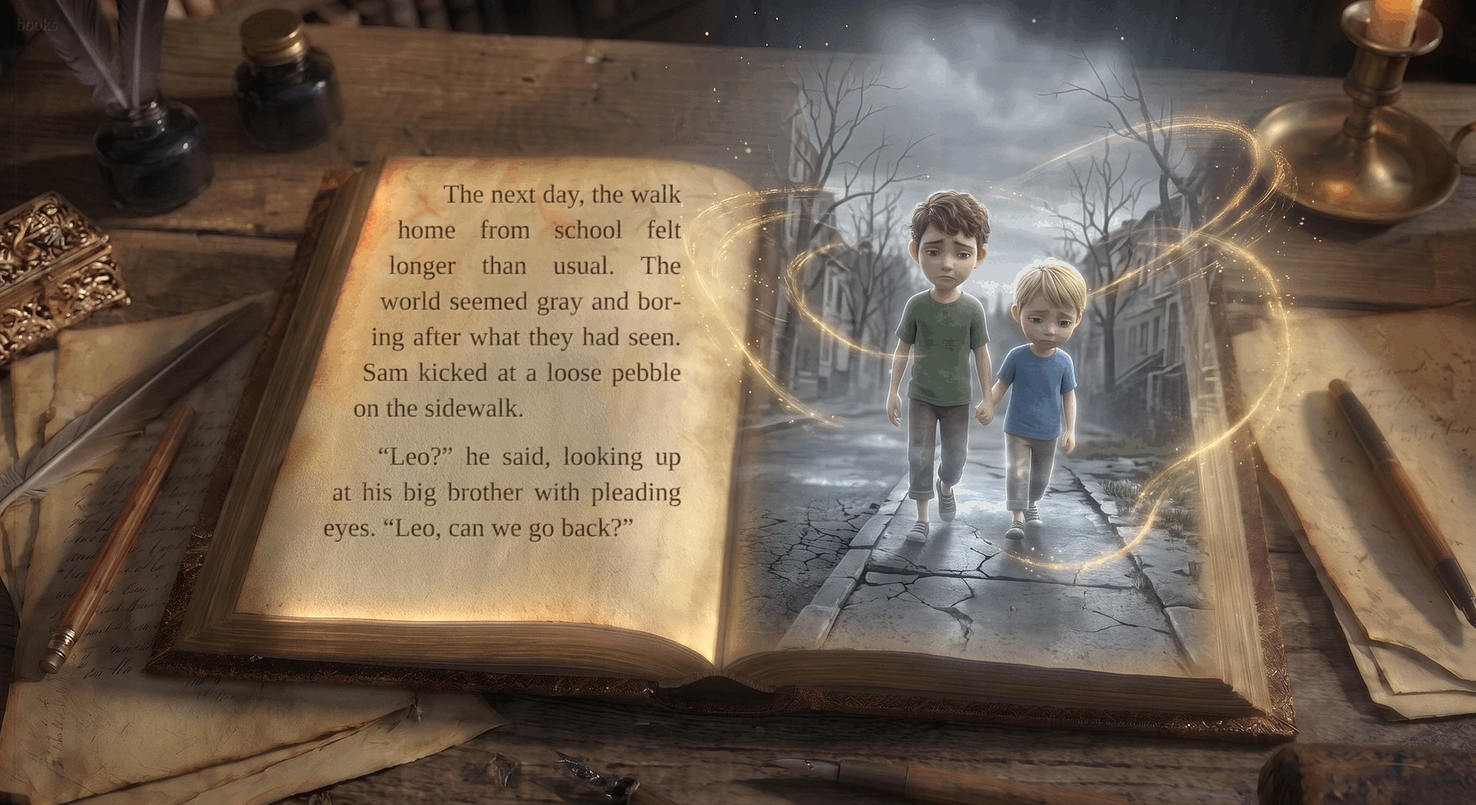
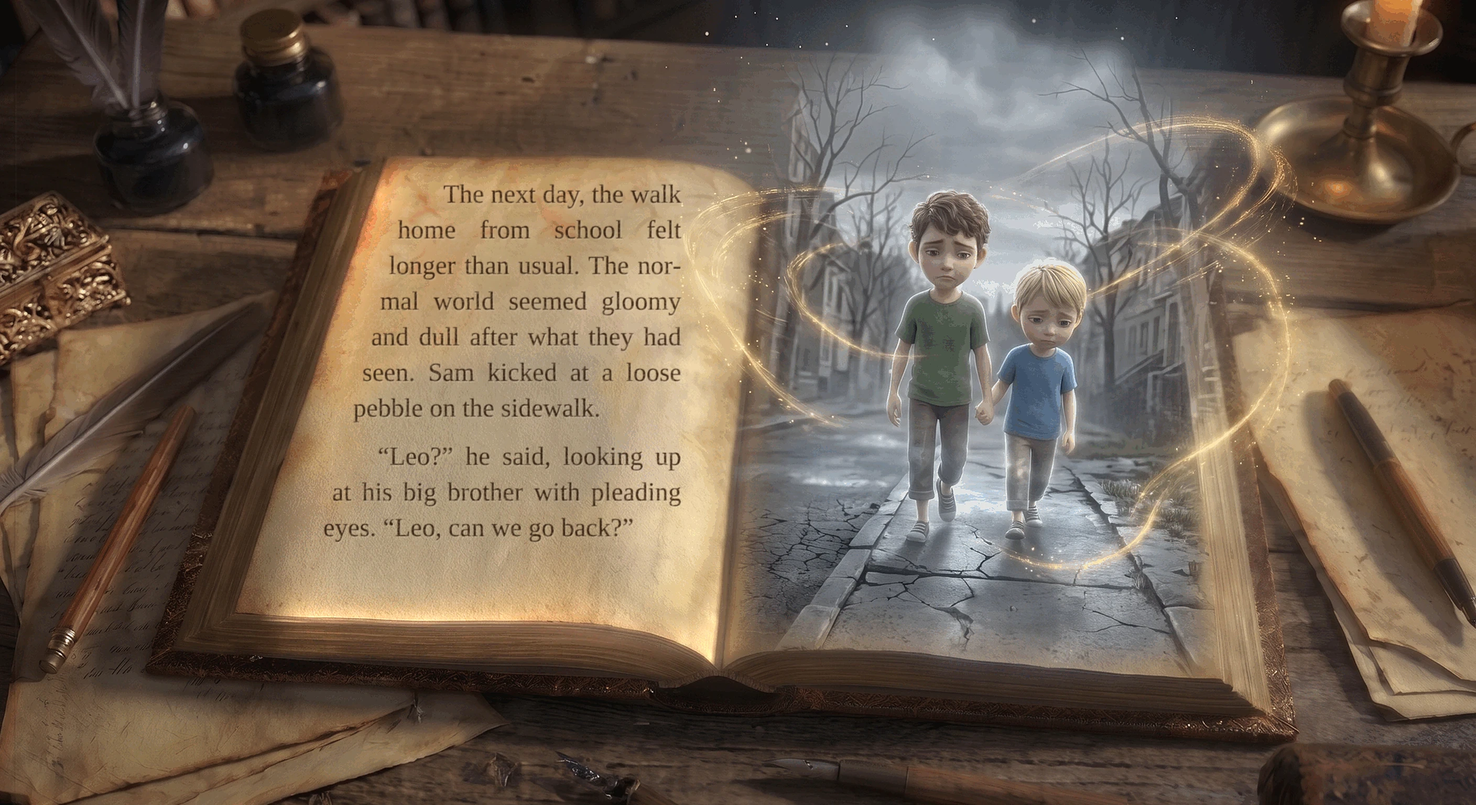
Page 35: gloomy and dull
Claude-Session: https://claude.ai/code/session_01BFtifSTdmWYaAK88ECs5PE

Changed region(s): [[0.25, 0.3125, 0.4688, 0.5312]]

diff --git a/books/upside-down-world/index.html b/books/upside-down-world/index.html
@@ -131,7 +131,7 @@ body.narrow #bar{gap:6px;padding-top:8px}body.narrow #bar button{padding:0 12px;
   <button id="auto" aria-pressed="true" title="Turn the pages by itself">Auto turn</button>
   <button id="next" aria-label="Next page">&#8594;</button>
 </div>
-<script src="story.js?v=136"></script>
+<script src="story.js?v=137"></script>
 <script src="sprite.js?v=42"></script>
 <script src="lyrics.js?v=2"></script><script src="lyrics2.js?v=1"></script>
 <script src="voice.js?v=20"></script>
@@ -217,7 +217,7 @@ const vids={};let blackT=null;
 function black(){if(!blackT&&gl){blackT=gl.createTexture();gl.bindTexture(gl.TEXTURE_2D,blackT);gl.texImage2D(gl.TEXTURE_2D,0,gl.RGB,1,1,0,gl.RGB,gl.UNSIGNED_BYTE,new Uint8Array([0,0,0]));}return {ready:true,t:blackT};}
 function loadVid(name){if(vids[name])return vids[name];const v=document.createElement('video');v.muted=true;v.defaultMuted=true;v.loop=true;v.playsInline=true;v.setAttribute('playsinline','');v.setAttribute('muted','');v.preload='auto';v.crossOrigin='anonymous';v.src='img/'+name+'.mp4?v=92';
   const o={v,t:null,ok:false};v.addEventListener('playing',()=>{o.ok=true;});vids[name]=o;return o;}
-function pageTex(p){if(p.video)return {c:loadTex('img/'+p.img+'.webp?v=105'),d:p.relief?loadTex('img/'+p.img+'-d.webp'):black(),vid:loadVid(p.video)};return {c:loadTex('img/'+p.img+'.webp?v=105'),d:loadTex('img/'+p.img+'-d.webp')};}
+function pageTex(p){if(p.video)return {c:loadTex('img/'+p.img+'.webp?v=106'),d:p.relief?loadTex('img/'+p.img+'-d.webp'):black(),vid:loadVid(p.video)};return {c:loadTex('img/'+p.img+'.webp?v=106'),d:loadTex('img/'+p.img+'-d.webp')};}
 const ORIGIN={kb:[.72,.55],shade:[.80,.74]};
 function whv(p){return p.whale?[p.whale[0]/1408,p.whale[1]/768,p.whale[2]/1408,p.whale[3]/768]:[0,0,0,0];}
 function swv(p){return p.swirl?[p.swirl[0]/1408,p.swirl[1]/768,p.swirl[2],p.swirl[3]||0]:[0,0,0,0];}
@@ -242,7 +242,7 @@ function makeLayer(i){
   if(layers[i])return layers[i];
   const p=P[i],L=document.createElement('div');L.className='layer';
   const kb=document.createElement('div');kb.className='kb';kb.style.transformOrigin=(p.fx==='shade'?'80% 74%':'72% 55%');
-  if(!gl){let im;if(p.video){im=loadVid(p.video).v;im.poster='img/'+p.img+'.webp';}else{im=new Image();im.src='img/'+p.img+'.webp?v=105';im.alt='';}im.className='fb';kb.appendChild(im);}
+  if(!gl){let im;if(p.video){im=loadVid(p.video).v;im.poster='img/'+p.img+'.webp';}else{im=new Image();im.src='img/'+p.img+'.webp?v=106';im.alt='';}im.className='fb';kb.appendChild(im);}
   if(p.fx==='shade'){const s=document.createElement('div');s.className='shade';kb.appendChild(s);L._shade=s;}
   if(p.song){const r=document.createElement('div');r.className='rings';r.style.cssText='left:'+(650/W*100)+'%;top:'+(55/H*100)+'%;width:'+(130/W*100)+'%;height:'+(130/H*100)+'%';r.innerHTML='<i></i><i></i><i></i><i></i>';kb.appendChild(r);L._rings=r;}
   const t=document.createElement('div');t.className='txt'+(p.cover?' cover':'')+(p.book?' bk':'')+(p.songcard?' sc':'')+(p.big?' big':'');let b=p.box;

diff --git a/books/upside-down-world/story.js b/books/upside-down-world/story.js
@@ -36,7 +36,7 @@ window.STORY={"title":"The Upside-Down World","author":"M. A. Mafodh","pages":[
 {"img":"p14e","video":"p14v","box":[374,172,636,596],"parts":["That night, when Leo turned off his bedroom light, he froze. The orange basketball on his shelf was glowing in the dark. The black lines weren't normal anymore—they were shifting and swirling across the rubber like golden rivers, forming a glowing map."],"book":true},
 {"img":"p14e_2","video":"p14v_2","box":[374,172,636,596],"parts":["Leo's heart raced as he looked from the glowing ball to his window, out toward the dark silhouette of the park. The oak tree wasn't done with them yet."],"book":true},
 {"img":"p14e_3","video":"p14v_3","box":[374,172,636,596],"parts":["Slowly, a daring grin spread across Leo's face. He looked over at Sam's bed and whispered, his eyes shining with excitement, \"Get some sleep, Sam. Because tomorrow after school... we're going back.\""],"book":true},
-{"ch":"Chapter Two","img":"p18","sprite":"p18k","dust":true,"book":true,"box":[374,172,636,596],"parts":["The next day, the walk home from school felt longer than usual. The world seemed gray and boring after what they had seen. Sam kicked at a loose pebble on the sidewalk.\n\"Leo?\" he said, looking up at his big brother with pleading eyes. \"Leo, can we go back?\""]},
+{"ch":"Chapter Two","img":"p18","sprite":"p18k","dust":true,"book":true,"box":[374,172,636,596],"parts":["The next day, the walk home from school felt longer than usual. The normal world seemed gloomy and dull after what they had seen. Sam kicked at a loose pebble on the sidewalk.\n\"Leo?\" he said, looking up at his big brother with pleading eyes. \"Leo, can we go back?\""]},
 {"img":"p18b","sprite":"p18k","dust":true,"book":true,"box":[374,172,636,596],"parts":["Leo's stomach did a flip-flop. \"Yeah, about that! To be fair? Sam, that was...\"\n\"But the flying fish!\" Sam insisted, his hands flying up to show how they soared. \"And the giant rainbow whale! Don't you want to see them again? Don't you want to have an adventure?\""]},
 {"img":"p19","sprite":"p19k","dust":true,"book":true,"box":[374,172,636,596],"parts":["Leo hesitated. A tiny part of him, the part that had stared in wonder at the flying whale, did want to go back. The bigger part was still scared.\n\"We could take evidence,\" Sam whispered, as if it was a top-secret plan. \"We could take my camera! We could film it, and then we'd have proof!\""]},
 {"img":"p19b","sprite":"p19k","dust":true,"book":true,"box":[374,172,636,596],"parts":["That was it. Proof. If they had proof, it wouldn't just be a scary, crazy dream. It would be a real, amazing discovery. \"Okay,\" Leo heard himself say. \"Okay. We'll go. But we bring the camera, and we leave the second things get weird.\""]},
